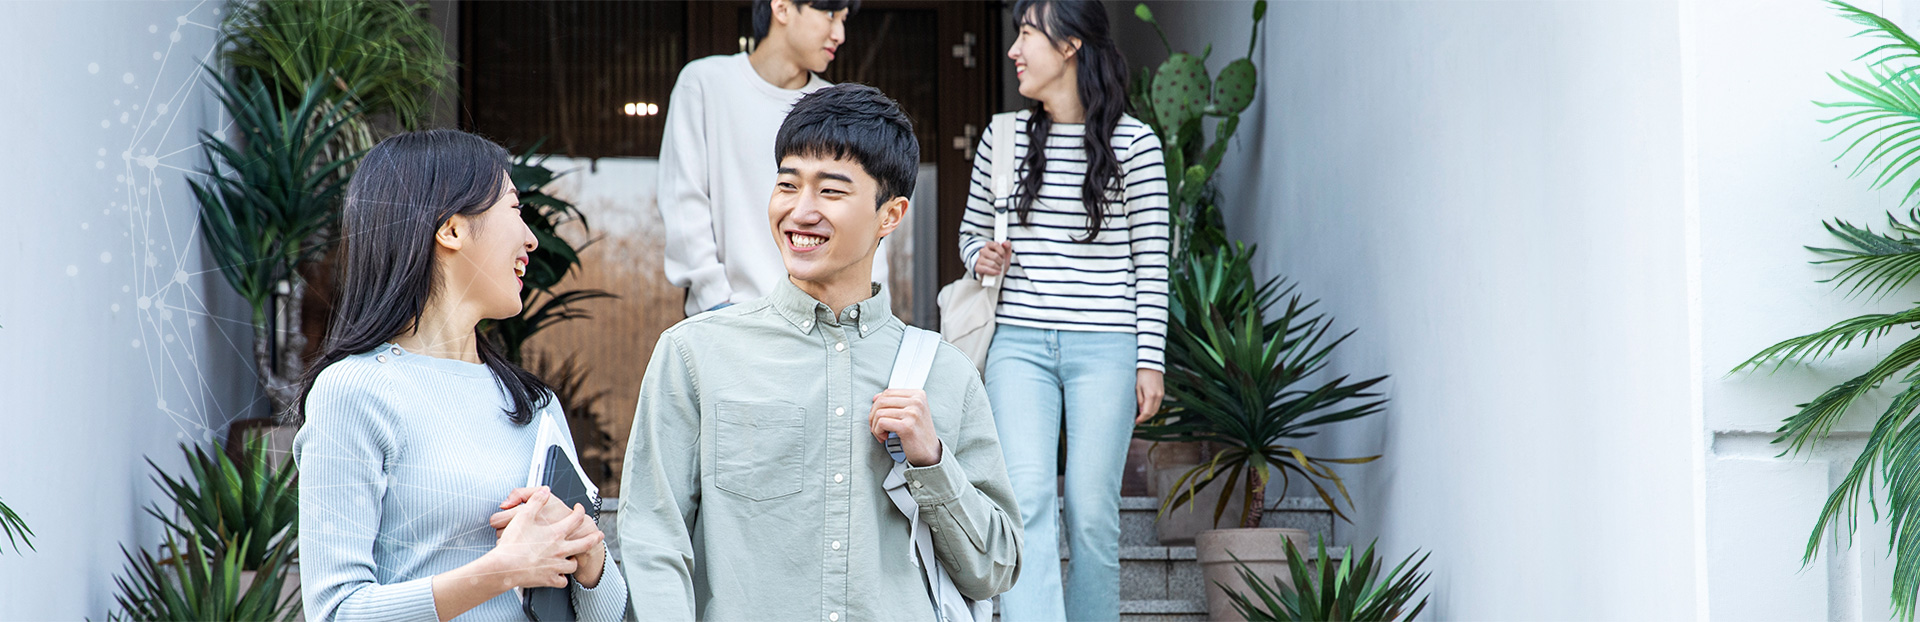
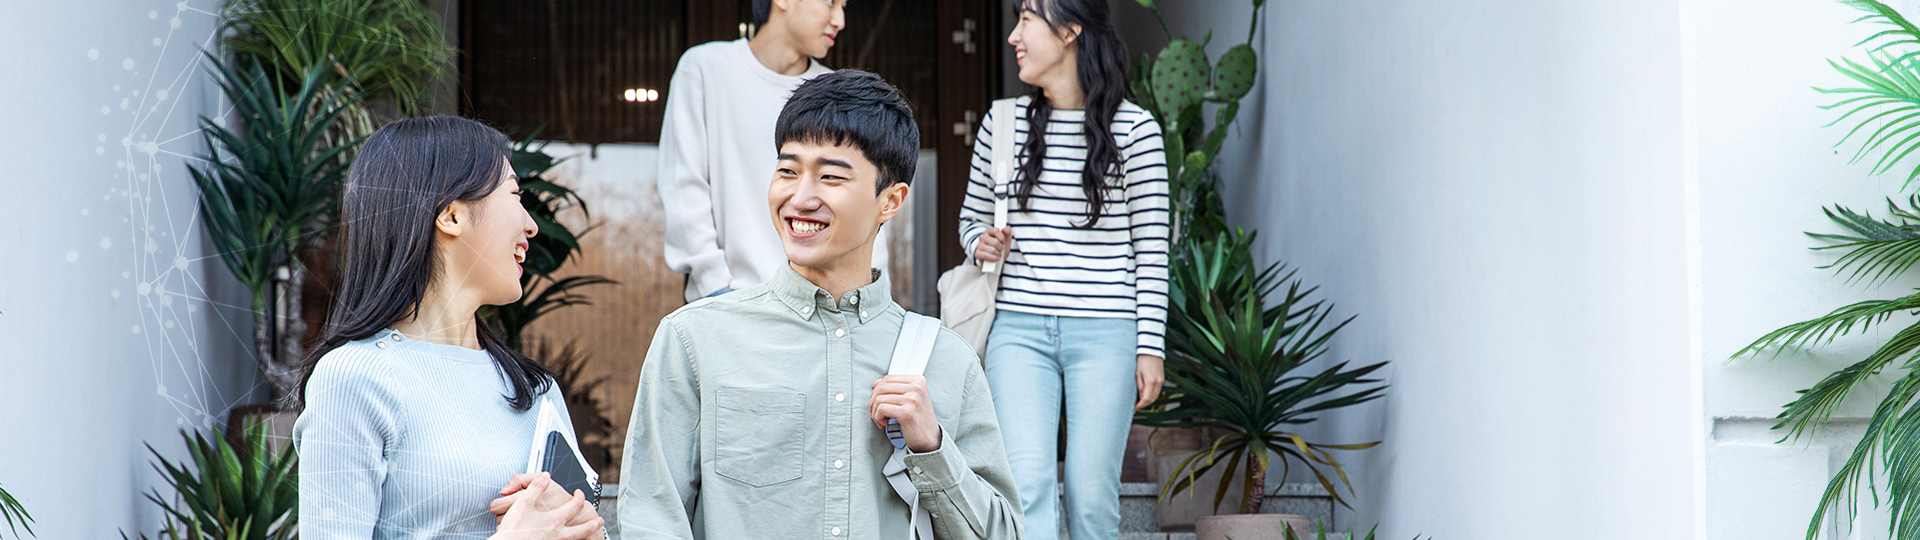
Add files via upload

diff --git a/eroom/css/main.css b/eroom/css/main.css
@@ -12,7 +12,7 @@
 
 #visual{position:relative;z-index:5;}
 #visual .slick{position:relative;z-index:10;}
-#visual .slick .slide{position:relative;padding-bottom:45px;}
+#visual .slick .slide{position:relative;padding-bottom: 35px;}
 #visual .slick .text{display:block;background:rgba(25,77,176,.9);height:336px;width:855px;position:absolute;bottom:0;left:50%;margin-left:115px;z-index:10;color:#fff;padding:45px 0 0 45px;}
 #visual .slick .text span{display:block;line-height:1.2;margin-bottom:10px;font-family: 'KoreanYNSJG';font-size:20px;font-weight:400;}
 #visual .slick .text h2{line-height:1.2;font-size:48px;font-family: 'KoreanYNSJG';font-weight:200;letter-spacing:-3px;margin-bottom:10px;}
@@ -22,6 +22,7 @@
 #visual .slick-current .text h2{animation:move2 .5s .8s 1 both ease-out;}
 #visual .slick-current .text p{animation:move3 .5s 1.3s 1 both ease-out;}
 #visual .slick-current img{animation:move4 3.5s .5s 1 both linear;}
+
 
 @keyframes move1{ 
     0%{transform:translateY(-110%);opacity:0;}
@@ -64,7 +65,7 @@
 
 @media (max-width:1199px) {
     #visual .slick .slide{padding-bottom:60px;}
-    #visual .slick .slide img{position:relative;height:400px;width:auto;margin-left:-617px;left:50%;}
+    #visual .slick .slide img{position:relative;height:430px;width:auto;margin-left:-617px;left:50%;}
     #visual .slick .text{height:auto;width:520px;left:0px;margin-left:0;padding:25px 0 20px 20px;height:205px;border-bottom-right-radius:10px;}
     #visual .slick .text span{margin-bottom:10px;font-size:16px;}
     #visual .slick .text h2{font-size:32px;letter-spacing:-2px;margin-bottom:10px;white-space:nowrap;}
@@ -78,7 +79,7 @@
 
 @media (max-width:991px) {
     #visual .slick .slide{padding-bottom:50px;}
-    #visual .slick .slide img{height:380px;margin-left:-586px;}
+    #visual .slick .slide img{height:400px;margin-left:-600px;}
     #visual .slick .text{width:460px;padding:25px 0 20px 20px;height:190px;}
     #visual .slick .text span{font-size:15px;}
     #visual .slick .text h2{font-size:28px;letter-spacing:-2px;margin-bottom:10px;}
@@ -91,7 +92,7 @@
 
 @media (max-width:760px) {
     #visual .slick .slide{padding-bottom:0px;}
-    #visual .slick .slide img{height:480px;margin-left:-700px;}
+    #visual .slick .slide img{height:480px;margin-left:-760px;}
     #visual .slick .text{width:calc(100% - 15px);padding:20px 0 20px 15px;height:175px;background: rgba(25,77,176,.35);text-shadow:1px 1px 2px rgba(0,0,0,.25);border-bottom-right-radius:0px;}
     #visual .slick .text span{font-size:15px;}
     #visual .slick .text h2{font-size:27px;letter-spacing:-1px;}
@@ -101,7 +102,7 @@
     #visual .slick-dots{bottom:15px;left:15px;transform:scale(.8);transform-origin:0% 0%;}
 }
 
-#shortcut{position:relative;padding:45px 0 40px;}
+#shortcut{position:relative;padding: 35px 0 40px;}
 #shortcut .bx{display:flex;margin:0 -60px;}
 #shortcut .bx a{flex:1;text-align:center;color:#000;font-size:18px;font-weight:700;position:relative;}
 #shortcut .bx a i{display:flex;position:relative;margin:0 auto 20px;width:110px;height:110px;border-radius:50%;background:#fba704;transition:all .25s;justify-content:center;align-items:center;z-index:2;}
